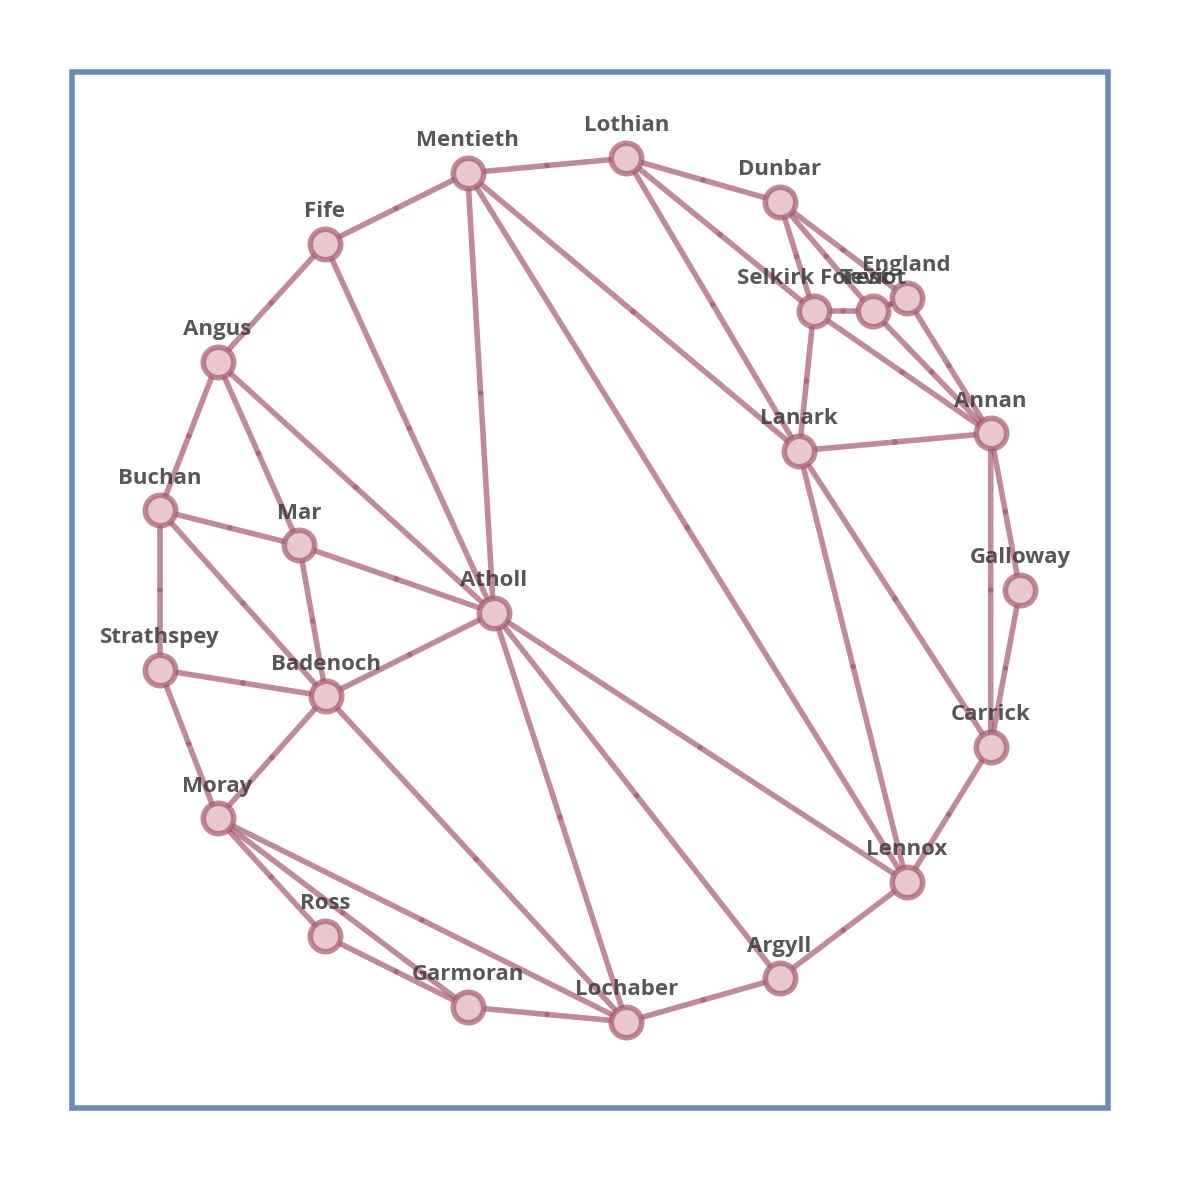
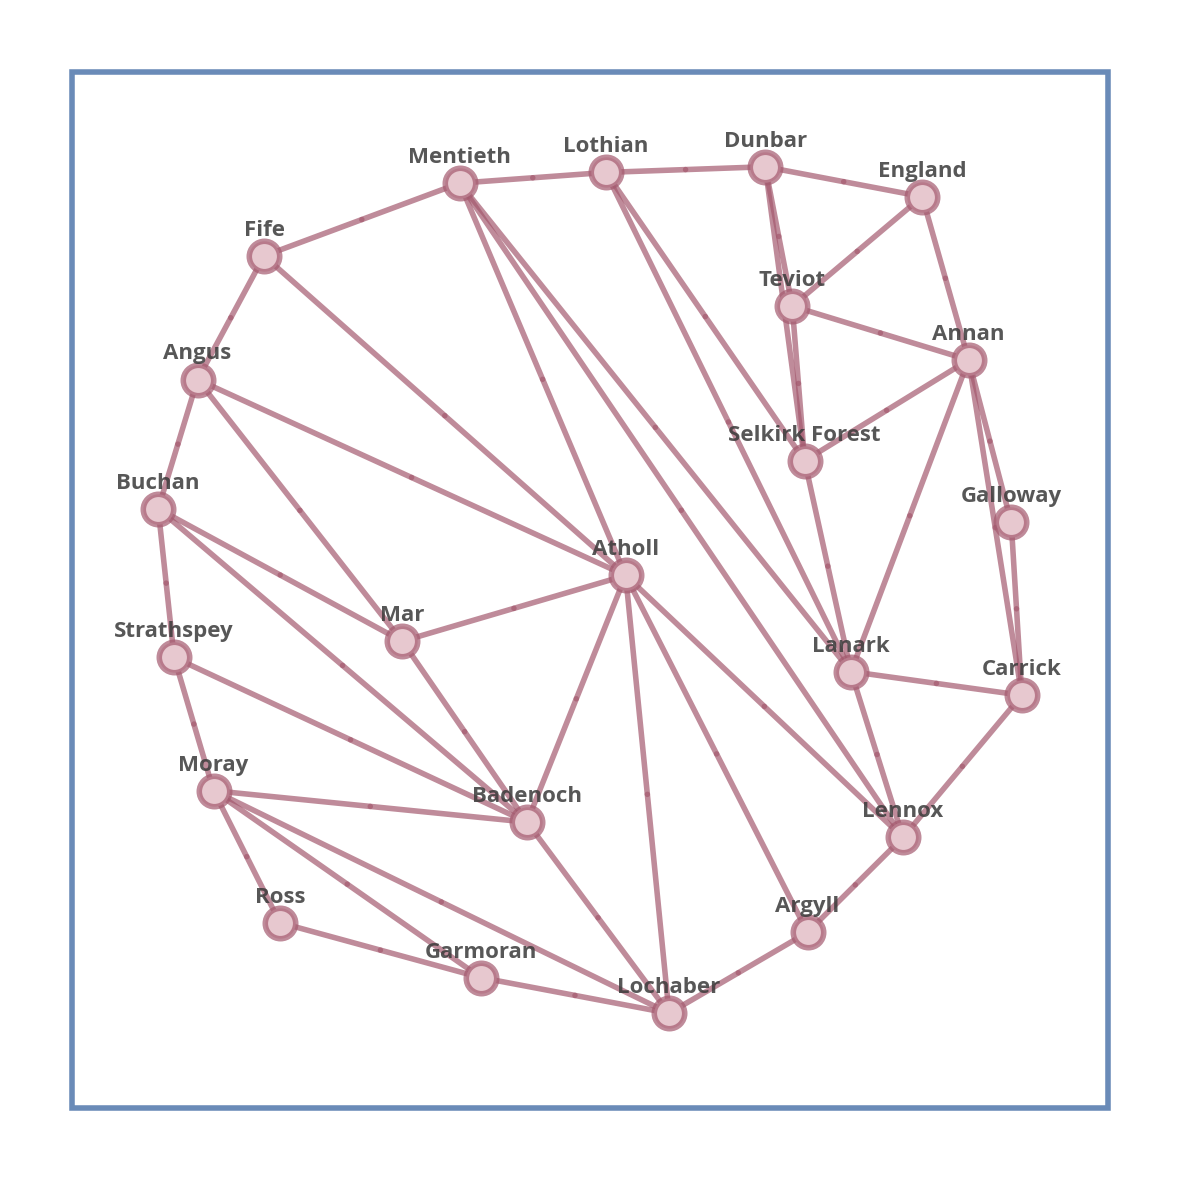
Finished the board game map work

Changed region(s): [[0.0915, 0.0915, 0.9153, 0.8847], [0.7017, 0.4271, 0.7322, 0.4576]]

diff --git a/map_rendering_tutte_embedding.py b/map_rendering_tutte_embedding.py
@@ -2254,7 +2254,7 @@ def main(filename, weights, refine=True, use_tutte=True):
             plt.close(fig)
 
 
-SCALE_PARAM = 0.4
+SCALE_PARAM = 0.8
 
 VIS_STYLE = {
     # ------------------------------------------------------------
@@ -2348,21 +2348,21 @@ VIS_STYLE = {
 # VIS_STYLE above is the style dict for the visualisation - tweak as desired, but it should be mostly fine as is for different matrices
 # Finally note 'SCALE_PARAM' above the dictionary - this affects font and node sizes and should be tweaked for more or fewer nodes
 
-PATH = "20260426-Hammer of the Scots.xlsx"
+PATH = "20260423-Low Variance.xlsx"
 
 
 USE_TUTTE = True  # Whether to use Tutte embedding for initial layout, or just the combinatorial embedding layout. Tutte is often better but can be very slow for larger graphs.
 # Tutte will only work if there are no 'bridges' / danglers in the outer face
 # Otherwise outer face nodes get repeated and it breaks
 
-REFINE = True  # Whether to run the optional refinement pass after the initial layout. This can improve spacing and face quality, but is also quite slow, especially for larger graphs. If using REFINE=True, you may want to tweak the WEIGHTS below to get better results - the current values are just what worked well for the Hammer of the Scots graph.
+REFINE = False  # Whether to run the optional refinement pass after the initial layout. This can improve spacing and face quality, but is also quite slow, especially for larger graphs. If using REFINE=True, you may want to tweak the WEIGHTS below to get better results - the current values are just what worked well for the Hammer of the Scots graph.
 
 WEIGHTS = {
-    "node_spread": 0,  # Rewards spreading out nodes
+    "node_spread": 0.6,  # Rewards spreading out nodes
     "edge_uniformity": 0,  # Rewards edges of similar length
     "face_area": 0.0,  # Rewards faces having similar area
-    "angle_penalty": 1.0,  # Rewards angles that are nicely spread around their nodes
-    "outer_roundness": 0.0,  # Rewards outer face nodes being placed in a more circular arrangement, rather than all bunched up on one side
+    "angle_penalty": 0.0,  # Rewards angles that are nicely spread around their nodes
+    "outer_roundness": 1,  # Rewards outer face nodes being placed in a more circular arrangement, rather than all bunched up on one side
     "outer_concavity": 100.0,  # Penalises outer face nodes being placed in a concave arrangement, which can lead to weird dual edges that loop around the outside of the drawing
 }
 
